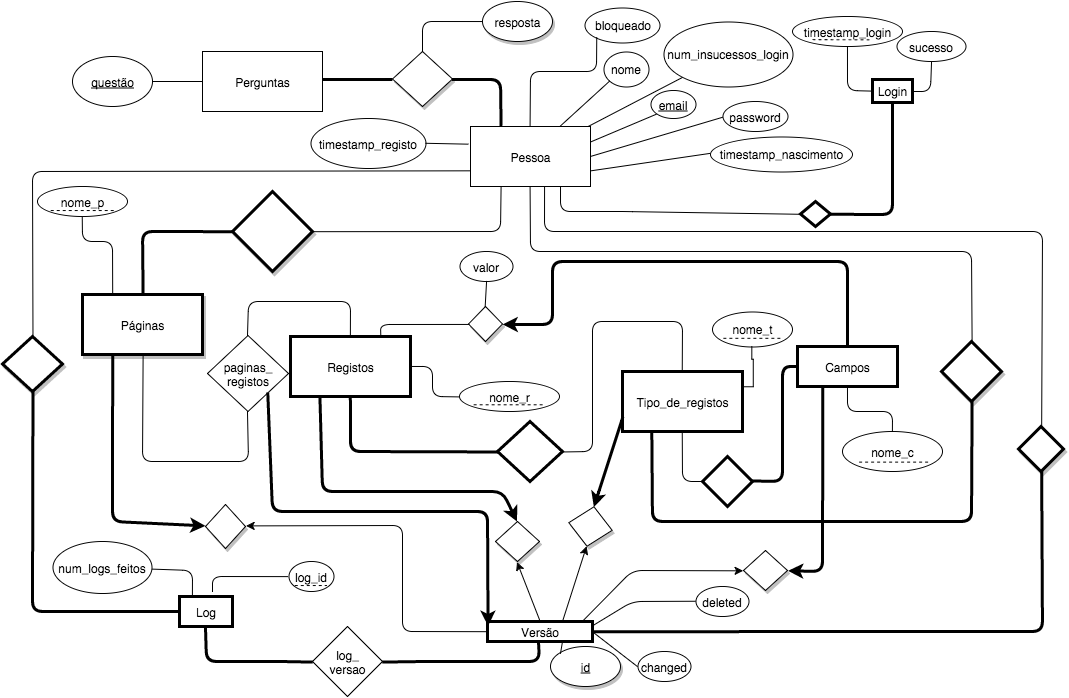
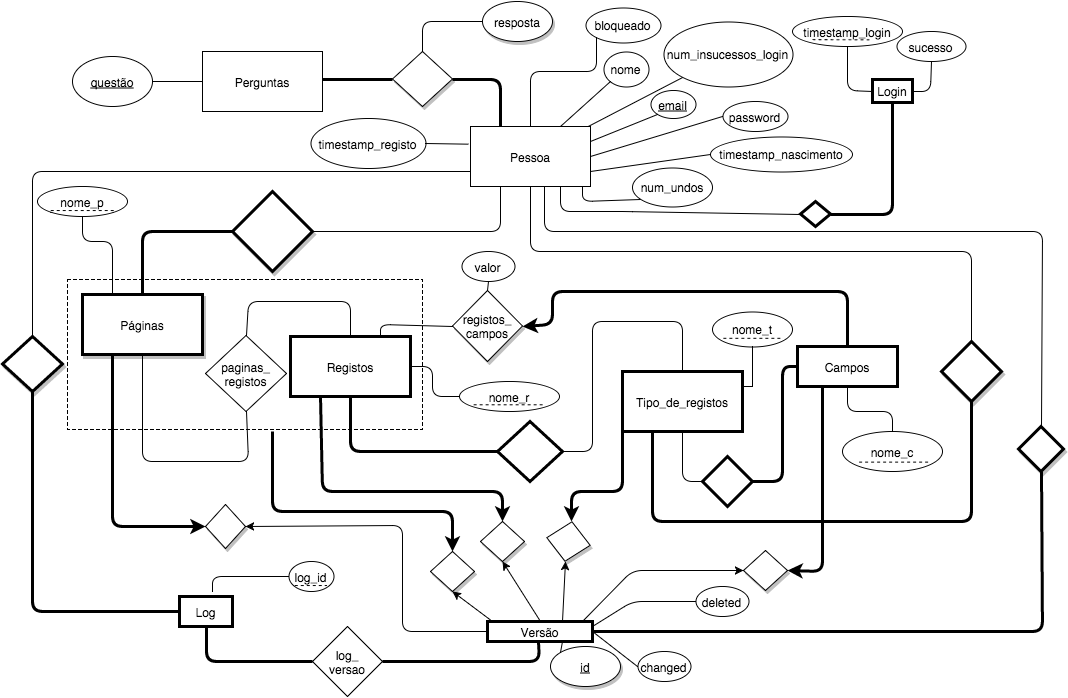
stuff ? more stuff, more cenas

diff --git a/PROJ-1/BD-PROJ1.tex b/PROJ-1/BD-PROJ1.tex
@@ -5,37 +5,36 @@
 \usepackage{authblk}
 \usepackage{enumitem}
 \usepackage{graphicx}
-
+\usepackage[hmargin=2cm,vmargin=3.5cm,bmargin=2cm]{geometry}
 
 
 \pagenumbering{arabic}
 
-\setlist[description]{labelindent=1cm}
-
 \title{\textbf{Projecto de Base de Dados}}
  
-\author{Bruno Cardoso e Lidia Freitas e Rodrigo Bernardo} 
+\author{Bruno Cardoso, Lidia Freitas e Rodrigo Bernardo} 
 
 \affil{Instituto Superior T\'{e}cnico}
  
 \date{Parte 1}
  
 \begin{document}
-\setlength{\pdfpxdimen}{1in/250}
+
 \maketitle
 
 \newpage
-\setcounter{page}{1}
+
 
 \tableofcontents %Índice de conteúdos
 \newpage
-
+\setcounter{page}{1}
 \section{O Modelo}
 \subsection{Modelo Entidade-Associa\c{c}\~ao}
 
-\advance\leftskip-2.5cm
-\includegraphics[width=1.40\textwidth]{modelo-ea.png}
-\advance\leftskip+2.5cm
+%\advance\leftskip-5.0cm
+\centerline{\includegraphics[width=1.0\textwidth]{modelo-ea.png}}
+%\advance\leftskip+2.5cm
+
 
 ADICIONAR CHAVE CANDIDATA A PESSOA.(Alternativa de entrar na conta)
 \newpage
@@ -58,8 +57,15 @@ O Modelo Entidade-Associa\c{c}\~{a}o, apenas com o diagrama, n\~{a}o exige que n
 \end{description}
 
 \begin{description}[noitemsep]
-	\item Pessoa(\underline{email}, bloqueado, nome, insucesso, password, timestamp\_nascimento, timestamp\_registo)
-	\item nutnull(email,bloqueado, nome, insucesso, password, timestamp\_nascimento, timestamp\_registo)
+	\item Pessoa(\underline{email}, bloqueado, nome, num\_insucessos\_login, password, timestamp\_nascimento, timestamp\_registo, num\_undos)
+	\item notnull(email)
+	\item notnull(bloqueado)
+	\item notnull(nome)
+	\item notnull(num\_insucessos\_login)
+	\item notnull(password)
+	\item notnull(timestamp\_nascimento)
+	\item notnull(timestamp\_registo)
+	\item notnull(num\_undos)
 \end{description}
 
 \begin{description}[noitemsep]
@@ -76,8 +82,7 @@ O Modelo Entidade-Associa\c{c}\~{a}o, apenas com o diagrama, n\~{a}o exige que n
 \end{description}
 
 \begin{description}[noitemsep]
-	\item P\'{a}ginas\_registos(\underline{nome\_p, email, nome\_r},id )
-	\item email: FK(Pessoa)
+	\item P\'{a}ginas\_registos(\underline{nome\_p, nome\_r},id )
 	\item nome\_p: FK(P\'{a}ginas)
 	\item nome\_r: FK(Registos)
 	\item id: FK(Vers\~{a}o)
@@ -100,9 +105,9 @@ O Modelo Entidade-Associa\c{c}\~{a}o, apenas com o diagrama, n\~{a}o exige que n
 \newpage
 
 \begin{description}[noitemsep]
-	\item Campos(\underline{nome\_c, nome\_t, nome\_r}, valor, id)
+	\item Campos(\underline{nome\_c, nome\_t}, id)
 	\item nome\_t: FK(Tipo\_de\_registos)
-	\item nome\_r: FK(Registos)
+	\item id: FK(Vers\~{a}o)
 	\item notnull(id)
 \end{description}
 
@@ -119,7 +124,7 @@ O Modelo Entidade-Associa\c{c}\~{a}o, apenas com o diagrama, n\~{a}o exige que n
 
 \begin{description}[noitemsep]
 	\item Log\_vers\~{a}o(\underline{log\_id, id})
-	\item log\_id: FK(log)
+	\item log\_id: FK(Log)
 	\item id: FK(Vers\~{a}o)
 \end{description}
 
